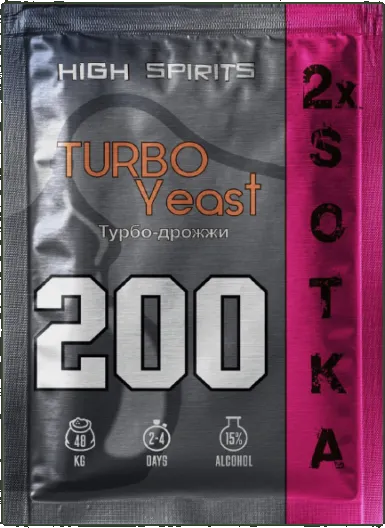
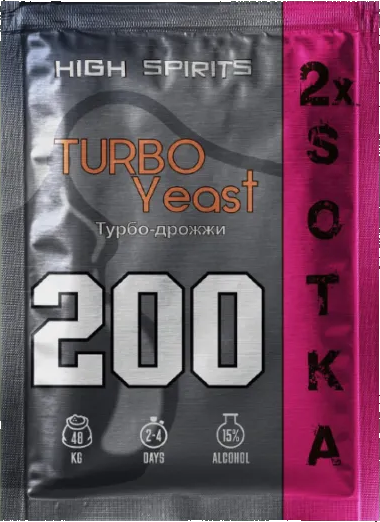
Фото High Spirits: убрать остатки тёмной каймы; переимпорт фото при изменении файла

diff --git a/.devcontainer/seed-yeast.php b/.devcontainer/seed-yeast.php
@@ -55,9 +55,13 @@ foreach ( $products as $item ) {
 	update_post_meta( $id, '_besedka_usage', $item['usage'] );
 	update_post_meta( $id, '_besedka_ferment', $item['ferment'] );
 
-	if ( get_post_meta( $id, '_besedka_seed_image', true ) !== $item['image'] ) {
-		$tmp = wp_tempnam( $item['image'] );
-		copy( $theme_dir . '/img/products/' . $item['image'], $tmp );
+	$image_file = $theme_dir . '/img/products/' . $item['image'];
+	$image_sig  = $item['image'] . '|' . md5_file( $image_file );
+
+	if ( get_post_meta( $id, '_besedka_seed_image', true ) !== $image_sig ) {
+		$old_thumb = (int) get_post_thumbnail_id( $id );
+		$tmp       = wp_tempnam( $item['image'] );
+		copy( $image_file, $tmp );
 		$attachment_id = media_handle_sideload(
 			array(
 				'name'     => $item['image'],
@@ -70,7 +74,10 @@ foreach ( $products as $item ) {
 			WP_CLI::warning( 'Фото не загружено: ' . $item['name'] . ' — ' . $attachment_id->get_error_message() );
 		} else {
 			set_post_thumbnail( $id, $attachment_id );
-			update_post_meta( $id, '_besedka_seed_image', $item['image'] );
+			update_post_meta( $id, '_besedka_seed_image', $image_sig );
+			if ( $old_thumb && $old_thumb !== $attachment_id ) {
+				wp_delete_attachment( $old_thumb, true );
+			}
 		}
 	}
 
